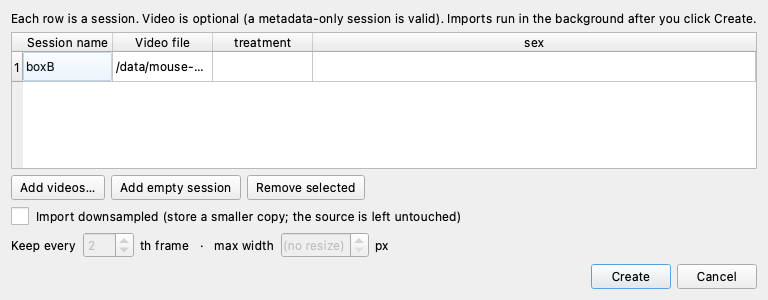
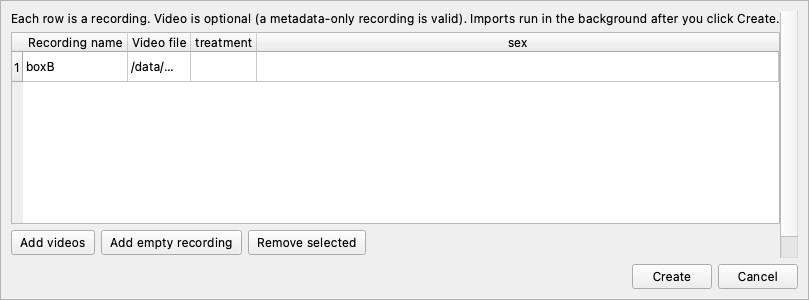
GUI guide, getting started, tools, workflows: match the current app, and refresh four workflow screenshots
Claude-Session: https://claude.ai/code/session_01P8h5Ax3XQNzAgR6wadyiRh

diff --git a/docs/gui.md b/docs/gui.md
@@ -43,11 +43,12 @@ A **mode banner** across the top, the current **screen** below it. The banner is
 Experiments     every experiment in the workspace: double-click a card to open
 Active processes  everything in flight across every experiment, plus what failed
 Configuration   machine-global setup checklist; each step opens its own screen:
-                  GPU / CUDA           accelerator status + a CUDA "doctor"
-                  SAM 3 backend        copy-paste commands to install the backend
-                  Hugging Face         token for gated model downloads
-                  Install a model      opens the Model manager
-                  Distill a fast model opens the Model manager
+                  GPU / CUDA             accelerator status + a CUDA "doctor"
+                  Hugging Face access    token for gated model downloads
+                  SAM 3 backend package  copy-paste commands to install the backend
+                  SAM 3 weights          opens the Model manager
+                  See it segment a clip  opens Quick tools
+                  Recommended: distill a fast model   opens the Model manager
 Model manager   every model on one page: global models, the open experiment's
                   trained models, and the Hugging Face foundation models;
                   distill or import a model from the top
@@ -139,8 +140,10 @@ A clip player also has **Context: off · 1 s · 2 s · 5 s**, the footage shown 
 clip. The clip sits between the brackets, and playing starts at the left edge so you watch the
 lead-in. A clip that fills nearly the whole bar (a cluster member that runs most of the video,
 say) gets no brackets, since there is no context to set it apart from. Near the start or end of a video you get whatever footage there is. Each screen picks
-its own starting amount (1 s on the clustering page's clip window and on Behavior Scan's AUDIT,
-off elsewhere); a change lasts until you close the player.
+its own starting amount: 1 s for a clip opened from AUDIT (a clustering run's or a behavior
+scan's), whatever the montage's **Show ▾** context is set to for a clip opened from a clustering
+run's INTERPRET (off until you change it), and off elsewhere. A change lasts until you close the
+player.
 
 **A clip in its own window** (double-click a clip, or a tile of the clustering page's montage)
 opens in the **Advanced view**: untick **Advanced view** at its top for the plain one-picture
@@ -262,7 +265,7 @@ Two surfaces show frames and deliberately do not play:
 
 ## Configuration
 
-Machine-global setup, shared across every experiment. The landing page is a **Get started** checklist (GPU / CUDA, the SAM 3 backend, Hugging Face access, a detection model, and optionally a distilled model), each with an **Open** button. It reads live state and marks each step ✓ when done.
+Machine-global setup, shared across every experiment. The landing page is a **Get started** checklist (GPU / CUDA, Hugging Face access, the SAM 3 backend package, the SAM 3 weights, **See it segment a clip**, which opens [Quick segment](tools.md#quick-segment), and **Recommended: distill a fast model**), each with an **Open** button. On a machine with no NVIDIA GPU the two SAM 3 steps are marked as needing one, and **Install a runnable detection model** is added after them. It reads live state and marks each step ✓ when done.
 
 **Check readiness** re-runs the checks. It probes the environment in a fresh subprocess, so if you install something in a terminal while the app is open (a CUDA PyTorch wheel, the SAM 3 backend package), clicking it picks the change up **without restarting the app**. A newly installed SAM 3 backend is then usable straight away, Quick segment included. A reinstalled PyTorch is not: the running app keeps the PyTorch it started with, so restart DETAIL to use the new build. The same checks run headless as [`detail doctor`](cli.md#doctor). SAM 3 is only marked ready when its weights *and* its backend package (`import sam3`) are both present, so a run can't pass the check and then crash mid-run.
 
@@ -715,7 +718,7 @@ Every run also writes `activity.csv` beside itself: a timestamped line per updat
 
 **＋ Distill new model**, on an experiment's **Models** page and on the [Model manager](#models), makes either kind of model: **Model type** at the top of the dialog chooses a **Detector** (boxes and masks) or a **Keypoints** model, and the fields below it follow. Name and experiment are shared. For a detector it runs the model-fitting flow: generate a YOLO dataset, train a detection model, and apply it as an ordinary detection run. The trained model is usable in that experiment straight away, under **Models** in the rail; it joins the machine-wide **Global models** only when you [promote it](#models). Distillation pairs a **teacher** (a strong model that labels the frames, `sam3` by default) with a **student** (the fast YOLO trained on those labels), so the form's two model pickers are labeled that way.
 
-**Models** in the rail lists the experiment's trained models, newest first. The **Source** column says where each came from: the distill run that trained it, or `trained` for one trained straight from a dataset. Double-click a row to open the model. Under it, **Distill runs** lists every distill run, including one that failed before it trained anything, which is why it is a table of its own; double-click a run to watch it, or to **Resume** a failed one. **Datasets** in the rail lists the training datasets.
+**Models** in the rail lists the experiment's trained models, newest first. The **Source** column says where each came from: the distill run that trained it, or `trained` for one trained straight from a dataset. Double-click a row to open the model. Under it, **Distill runs** lists every distill run, including one that failed before it trained anything, which is why it is a table of its own; double-click a run to watch it, or to **Resume** a failed one. **Datasets** in the rail lists the training datasets. Double-click one to open it: its name, status, source run, frames, train/validation counts and classes, and your [notes](#notes). While it is being built the page shows **Cancel dataset**, which stops its worker; once it is not, **Delete dataset** removes its images and labels after asking, and cannot be undone.
 
 Two buttons at the top of **Models** make a model:
 
@@ -734,7 +737,7 @@ Or do both at once: **＋ Distill new model** (on the **Models** page or the Mod
 returns them) and the held-out check; **Cancel** stops it. **Another sample** draws different
 frames; **Use this cut-off** writes the value into the field. Whenever **Distill** is greyed, the line beside it says why: an example set, a tracking run, a ticked detect run, a detect run with no single tracking run to give its poses to, or the cut-off. The training settings mirror **Train from dataset…**, with the **Student** a `-pose` checkpoint. The run has three stage rows, Label frames, Train model and **Register student**, the last filing the model under `role: keypoints` as `<name> distill_NNN` so **Keypoint detect** can offer it. A run that failed at register keeps its trained student; **Resume distill** only registers it. The **Distill runs** and **Models** tables' **Kind** column says `detector` or `keypoints`.
 
-A trained model's detail page lists its lineage, classes, weights, and metrics (best-epoch and final mAP50), above them. **Trained with** says the Ultralytics version and the settings it was asked for (epochs, batch size, image size, patience); every other setting Ultralytics resolved is kept in the model's `model.yaml`. While a run is training (or after one has finished) a **Training curve** band plots mAP50 against epoch, marks the best epoch, and says so underneath: *Best so far: 0.832 mAP50 at epoch 31: no improvement in 7 epochs (of 60)*. The x axis spans the whole run from the first epoch, so the shape does not rescale under you as it fills in. A model imported from elsewhere has no curve, because it has no epochs here. Training runs on CUDA when available. A training that was cancelled or crashed shows a **Resume training** button that continues from the last checkpoint.
+A trained model's detail page lists its lineage, classes, weights, and metrics (best-epoch and final mAP50), above them. **Trained with** says the Ultralytics version and the settings it was asked for (epochs, batch size, image size, patience); every other setting Ultralytics resolved is kept in the model's `model.yaml`. While a run is training (or after one has finished) a **Training curve** band plots mAP50 against epoch, marks the best epoch, and says so underneath: *Best so far: 0.832 mAP50 at epoch 31: no improvement in 7 epochs (of 60)*. The x axis spans the whole run from the first epoch, so the shape does not rescale under you as it fills in. A model imported from elsewhere has no curve, because it has no epochs here. Training runs on the best backend present (CUDA, else MPS, else CPU) unless you choose one. A training that was cancelled or crashed shows a **Resume training** button that continues from the last checkpoint.
 
 **Stopping training early.** A run in progress shows two buttons, and they do different things. **Stop and keep** finishes the epoch in progress and then saves the best weights so far, use it when the curve has flattened and the model is good enough. The weights kept are the **best** epoch's, not the last one's, which is why the band marks the peak. It is not instant: training checks between epochs, so on real data expect a few minutes. The model then counts as **complete**, you chose to finish it, and its page says **Stopped early: at epoch N**. It has no **Resume training**: the run is finished, so there is nothing to resume; train a new model to train further. **Cancel model** stops the worker now and discards the run. A failed dataset or training run shows its recorded error. **Promote to global** copies a completed model into the machine-global catalog with its provenance (source experiment, dataset, base model, metrics), so any experiment can select it.
 
@@ -843,7 +846,7 @@ The run writes `metrics.csv`, `folds.csv`, and per-clip detail. Open it for the 
 
 ### Behavior clustering
 
-Builds one vocabulary of *behaviors* pooled across the recordings you select, with no labels and nothing to point at ([how it works](modules/temporal_clustering.md)). It cuts each subject's trajectory into **bouts** at the moments the pose changes, compares every pair of bouts, and groups them (so a cluster is a stretch of movement and an instance is one performance of it, with a real start and end you can play. **New analysis… → Behavior clustering**, check the recordings, pick the **embedding run** and **track**, and **Run**. **Method** offers two ways of doing it, and the form shows only the chosen one's knobs. **codebook_viterbi** (the default) clusters a sample of frames into a codebook and decodes the sequence; its knobs are **Share of each recording**, **Codewords** and **Minimum run**. **dtw_finch** cuts the trajectory into bouts and compares every pair; the detector, minimum bout length, DTW band and **Max bouts** are its, under *Advanced settings*. The two tie on vocabulary quality and the bout path draws slightly better boundaries, but comparing every pair of bouts grows with the square of the study, so keep **dtw_finch** for short studies: the codebook's expensive step is bounded by a number you set, not by how much data you have. **Share of each recording** is how densely every video is sampled to build the codebook, the same in a large study as a small one. **Codewords** is the cost knob: the decode costs roughly the square of it on every frame you pooled, so lower it, not raise it, when a fit is slow.
+Builds one vocabulary of *behaviors* pooled across the recordings you select, with no labels and nothing to point at ([how it works](modules/temporal_clustering.md)). A cluster is a stretch of movement and an instance is one performance of it, with a real start and end you can play. **New analysis… → Behavior clustering**, check the recordings, pick the **embedding run** and **track**, and **Run**. **Method** offers two ways of doing it, and the form shows only the chosen one's knobs. **codebook_viterbi** (the default) clusters a sample of frames into a codebook and decodes the sequence; its knobs are **Share of each recording**, **Codewords** and **Minimum run**. **dtw_finch** cuts the trajectory into bouts and compares every pair; the detector, minimum bout length, DTW band and **Max bouts** are its, under *Advanced settings*. The two tie on vocabulary quality and the bout path draws slightly better boundaries, but comparing every pair of bouts grows with the square of the study, so keep **dtw_finch** for short studies: the codebook's expensive step is bounded by a number you set, not by how much data you have. **Share of each recording** is how densely every video is sampled to build the codebook, the same in a large study as a small one. **Codewords** is the cost knob: the decode costs roughly the square of it on every frame you pooled, so lower it, not raise it, when a fit is slow.
 
 **Embedding run** lists each set of embedding settings found across the checked recordings, with how many have a run of it (`N/M recordings`); the widest is ticked. Settings include everything upstream of the embedding, so recordings detected by two different models (one per strain, say) show up as two rows even when the embedding was made identically. **Tick both** to pool every recording into one vocabulary: each reads its run of the setting it has. A recording with a run of two ticked settings is refused in the form, and the runs must share an embedding model and input image, or the launch says they are not comparable.
 
@@ -946,7 +949,7 @@ already quoted. A run that has not sent anything anywhere shows no list at all.
 banner on the landing page names which one you are on, and the view cards open the interpretation *as it was*,
 the same tree, montage, labels and instance list, with the labels that were pinned. Everything
 that would change it is greyed: labelling, rebuilding clips, Finish and Reopen, every AUDIT edit
-(the **Mark as** buttons, **Undo**, **Finish**, **Reopen review**, and INTERPRET's **Put back in…**; every cluster's clips still play and can be selected, since watching changes nothing) and the audit line's **Move to…** and **Remove from the label**, and the run's own **Delete analysis**,
+(removing a clip by clicking it, **Undo**, **✓ Finish review**, **Reopen review**, and INTERPRET's **Put back in…**; every cluster's clips still play and can be selected, since watching changes nothing) and the audit line's **Move to…** and **Remove from the label**, and the run's own **Delete analysis**,
 **Cancel analysis**, **Start new analysis** and **Open output folder**. **Measures** is not shown at all, because it reports on the live run. Everything that changes what you are *looking at* still works, open
 any cluster, zoom the tree, play a clip. **Back to live run** returns you, and
 double-clicking another row switches straight to it. **Behavior scan** runs work the same way: a
@@ -966,7 +969,7 @@ Does this behavior differ between these groups? Pick a behavior result, say how 
 
 - **Behavior result**: the analysis run whose behavior the comparison measures. Only runs that produced one are listed, labelled with the module that made them, how many recordings they cover, and when.
   {: #comparison-source }
-- **Measure**: the run's **labelled behaviors**, or **every cluster** of a clustering run, named or not. The second is the screen for clusters nobody has named yet: each node of the tree with at least the candidate floor of member time (30 s, under *Difference ranking*) is ranked by how its share of time differs, with bouts per hour and mean bout length beside it, nested slices of one behavior collapsed to the best of them, and a one-line reason on every kept node. It is offered only for a clustering run with a current node cache. With it chosen, the four measures show ticked and fixed and **Read snapshot** is greyed: every cluster is measured by all four, from the node cache as it is now. Choose the labelled behaviors again and the measures you had ticked come back.
+- **Measure**: the run's **labelled behaviors**, or **every cluster** of a clustering run, named or not. The second is the screen for clusters nobody has named yet: each node of the tree with at least the candidate floor of member time (30 s, under *Difference ranking*) is ranked by how its share of time differs, with its rate (bouts per second of observed time) and mean bout length beside it, nested slices of one behavior collapsed to the best of them, and a one-line reason on every kept node. It is offered only for a clustering run with a current node cache. With it chosen, the four measures show ticked and fixed and **Read snapshot** is greyed: every cluster is measured by all four, from the node cache as it is now. Choose the labelled behaviors again and the measures you had ticked come back.
   {: #comparison-measure }
 - **Compare across**, which column of your recording information splits the recordings into groups, plus **subject** and **window_id**. Each column shows the values it holds and how many recordings carry each, so you can see which ones split your cohort usefully before picking. A column holding only one value cannot define groups and is greyed out saying so. Choosing `window_id` compares early against late in the same way choosing `treatment` compares drug against vehicle.
   {: #comparison-groups }
@@ -991,13 +994,13 @@ Below the columns, the form shows the groups your choice produces and how big ea
 
 A saved comparison opens on three tabs. **Overview** leads with the groups it compared, how many recordings and animals stand behind them, the design that ran and why, why no permutation floor was computed when that applies, and the largest changes with their figures. When a label it scores was written from a cluster screen over the same column, the header says so (*rearing (cmp_01) was chosen from a difference screen over drug, so the effect here is not an independent finding*) and that label's reading in the table ends with *chosen from screen cmp_01 (cluster #1375 kept)*. A cluster screen's own page lists the labels written from it (*Labelled from this screen: rearing (#1375)*), as its run holds them now. For a within-animal design the table is the ranking itself: each row's effect, how many animals went that way, how many had the behavior at all, whether it clears the floor, its p's (*p (family · own)*: *0.02 · own 0.004*, the share of shuffled cohorts whose largest effect reaches the row and the share of its own shuffles that do), and the one-line reading ("less under drug than vehicle, 2.1×; 8 of 10 animals in that direction"). A cluster screen lists the kept nodes first, the next ten below the floor after them. **Measures** is the full table: every measure in a fixed order, so the same row sits in the same place across comparisons. **Figures** is all of them as a grid; double-click one to open it full size. **New comparison** opens the form pre-filled from this one, for when you want the same source grouped a different way; **Export** writes the whole publication tree wherever you point it, in the figure formats you pick. A group of one reports no spread rather than a zero.
 
-The figures draw themselves when you open the tab, and **Redraw figures** draws them again after an edit. Figures are drawn on white, for print; tick **Dark background (for slides)** beside the button, or in the Export dialog, for a dark version. Either way you get one figure per measurement, whatever the window model: a **dot plot** across groups when there is one window (every observation drawn as a point, not a bar), and a **curve** across windows when there are several, a sliding-window comparison is one line per group, not one plot per window. When the same animal appears in more than one group, a whole-recording comparison also gets a **paired plot**, one line per animal, because two independent clouds of dots throw away the pairing that makes a crossover worth running. A two-group comparison gets the **difference ranking**, with the floor that says how big a difference shuffling the group labels would produce anyway. Every figure carries what one point is. **Transitions** is the exception that is not drawn: it answers per ordered pair, which is a matrix rather than a series, so it is reported as rows in the Measures tab and in `stats.csv` instead of as one two-point plot per cell. Figures and tables are written beside the comparison, ready to use, including the contrast as a `booktabs` LaTeX table that drops into a manuscript.
+The figures draw themselves when you open the tab, and **Redraw figures** draws them again after an edit. Figures are drawn on white, for print; tick **Dark background (for slides)** beside the button, or in the Export dialog, for a dark version. Either way you get one figure per measurement, whatever the window model: a **dot plot** across groups when there is one window (every observation drawn as a point, not a bar), and a **curve** across windows when there are several, a sliding-window comparison is one line per group, not one plot per window. When the same animal appears in more than one group, a whole-recording comparison also gets a **paired plot**, one line per animal, because two independent clouds of dots throw away the pairing that makes a crossover worth running. Every comparison with something to rank (two or more groups, or a within-animal design) gets the **difference ranking**, with the floor that says how big a difference chance would produce under its design: shuffling the group labels across animals for a between design, flipping each animal's own direction or shuffling its levels for a within one. Every figure carries what one point is. **Transitions** is the exception that is not drawn: it answers per ordered pair, which is a matrix rather than a series, so it is reported as rows in the Measures tab and in `stats.csv` instead of as one two-point plot per cell. Figures and tables are written beside the comparison, ready to use, including the contrast as a `booktabs` LaTeX table that drops into a manuscript.
 
 Statistics stop at description: the only p-values are the permutation floor's own (each ranked row's share of the shuffles that reach it, family-wise and on its own, and a false-discovery q over them), with no model behind them. `stats.csv` beside the comparison is one row per observation with its factors attached, which is what a mixed model in R or statsmodels wants as input.
 
 ## Model manager {#models}
 
-**Model manager** (a banner tab) is the machine's whole model library on one page. It keeps distilled models from getting lost in a folder: each global model has a name, metadata, and a preview. Its three tables each show the four newest rows and scroll for the rest.
+**Model manager** (a banner tab) is the machine's whole model library on one page. It keeps distilled models from getting lost in a folder: each global model has a name, metadata, and a preview. Its three tables each show four rows and scroll for the rest: **Global models** newest first, **Hugging Face** with the suggested models first.
 
 **Global models** are the models every experiment can use (ones you imported, ones you restored from a zip, and ones you promoted from an experiment) in a table: **Name · From project(s) · Made by · Created · Kind**. **Kind** is *detector* or *keypoints*. **Double-click a row** to open its detail. The detail shows a **preview** (one overlay frame of the model's own segmentation, **double-click it** to see it full size and zoom in), its kind, description, notes, and classes, and a **build history** (the source project(s), dataset, model size, and metrics it was distilled from). A keypoint model's detail also shows its **skeleton**: the points, the left/right pairs, and the [Keypoints manager](#keypoints-manager) entry it matches. The model always uses its own copy of the skeleton. From the detail page you can **Edit** the metadata, **Set preview**, **Export**, or **Delete**. **Export** is also a button below the table.
 
@@ -1063,13 +1066,15 @@ only watched. Each folder also gets a `params.csv` of the settings that produced
 [notes](#notes) on what you exported from as `notes.md` when it has any, and an `export.yaml`
 manifest. Each row's tooltip names the files it writes.
 
-- **The clip you are watching.** Every clip player has an **Export video…** button beside its
-  Masks checkbox, on a clustering result, a behavior scan, a query, the audit tab, the spatial
-  map, and a clip opened in its own window. It writes the span on screen, in the flavour on
-  screen: masks on draws the outline, masks off writes the plain footage. It opens the same
-  dialog as **Export…** above, already pointed at that clip, so the destination and the folder
-  naming work the way every other export does. The `clip.csv` beside it names the recording,
-  subject and frame range, so the file can be put back where it came from.
+- **The clip you are watching.** A clip player has an **Export video…** button beside its
+  Masks checkbox, on a clustering result, a behavior scan, a query, the audit tab and the spatial
+  map. It writes the span on screen, in the flavour on screen: masks on draws the outline, masks
+  off writes the plain footage. It opens the same dialog as **Export…** above, already pointed at
+  that clip, so the destination and the folder naming work the way every other export does. The
+  `clip.csv` beside it names the recording, subject and frame range, so the file can be put back
+  where it came from. A clip opened in its own window has no **Export video…**: its **Export ▾**
+  writes what the window shows straight to a file you choose (see
+  [Scrubbing frames](#scrubbing-frames)).
 - **Pictures as well as rows.** Anything with a plot exports the plot too, as PNG and SVG: the
   ethogram, time per behavior, the spread of bout durations. They are drawn on white for print;
   tick **Dark background (for slides)** in the dialog for a dark version.
@@ -1081,7 +1086,7 @@ manifest. Each row's tooltip names the files it writes.
   more than one: they are written in a single decode pass, so three cost about what one does.
   The full field of view is the default; crop to the subject when you want the pose at a
   constant scale.
-- **Select first to export less.** With a cluster selected on **Interpretation**, or rows
+- **Select first to export less.** With a cluster selected on **Interpret**, or rows
   selected on **Browse**, an extra row appears offering that selection or the whole run. On a
   clustering run's **BROWSE**, **Export all** exports exactly what passes its filters.
 - **Choose which recordings.** A processing run that covers several recordings (detection,

diff --git a/docs/workflows/add-stream-data-and-metadata.md b/docs/workflows/add-stream-data-and-metadata.md
@@ -13,13 +13,13 @@ MED-PC data file (`.txt`) and its program (`.MPC`).
 
 === "GUI"
 
-    Open the recording and, in the **Streams** section, click **Add stream…**
+    Open the recording and, in the **Streams** section, click **Add stream**
     (highlighted).
 
     ![A recording detail page with the Add stream button highlighted.](../assets/workflows/add-stream-data/recording-full.png)
 
-    Choose the **MED-PC** importer, select the data file and the `.MPC` program,
-    then click **Import stream**.
+    Choose the data file, the **MED-PC (Med Associates)** importer and the `.MPC`
+    program, then click **Import stream**.
 
     ![The Add stream dialog set to the MED-PC importer with its data and program files chosen.](../assets/workflows/add-stream-data/add-stream-dialog.png)
 
@@ -33,21 +33,29 @@ MED-PC data file (`.txt`) and its program (`.MPC`).
 
 === "GUI"
 
-    Open the experiment's **Metadata** page from the sidebar (highlighted).
+    Open the experiment's **Recording information** page from the rail on the left
+    (highlighted).
 
     ![The app sidebar with the Metadata node highlighted.](../assets/workflows/add-stream-data/metadata-node.png)
 
-    Add a column per grouping variable and fill each recording's row, or use
-    **Import CSV…** to set them in bulk.
+    Click **Edit**, use **Add column** for each grouping variable, fill each
+    recording's row, then click **Save**. Or use **Import CSV** to set them in bulk.
 
-    ![The experiment metadata table with treatment and sex columns for each recording.](../assets/workflows/add-stream-data/metadata-page.png)
+    ![The Recording information table with treatment and sex columns for each recording.](../assets/workflows/add-stream-data/metadata-page.png)
 
 === "CLI"
 
-    Set grouping variables in bulk from a CSV with a `recording_id` column:
+    Set grouping variables in bulk from a CSV with a `recording_id` column (a `name`
+    or video file name column works too):
 
     ```
     detail experiment import-metadata --experiment ~/Documents/DetailExperiments/operant-study --csv metadata.csv
+    ```
+
+    Or one recording at a time:
+
+    ```
+    detail experiment set-metadata --experiment ~/Documents/DetailExperiments/operant-study --recording boxA --set treatment=drug_A --set sex=M
     ```
 
 ## Next

diff --git a/docs/tools.md b/docs/tools.md
@@ -48,14 +48,16 @@ The Configuration checklist's **See it segment a clip** step opens this tool.
 ### CLI
 
 ```
-detail tools quick-segment CLIP.mp4 [CLIP2.mp4 …] --prompt mouse [--prompt "mouse with tail"] [--frames 50] [--min-conf 0.25]
-detail tools quick-segment CLIP.mp4 --consecutive --prompt mouse [--whole-video] [--export out.mp4]
+detail tools quick-segment CLIP.mp4 [CLIP2.mp4 …] --prompt mouse [--prompt "mouse with tail"] [--frames 50] [--min-conf 0.25] --backend cuda
+detail tools quick-segment CLIP.mp4 --consecutive --prompt mouse [--whole-video] [--export out.mp4] --backend cuda
 ```
 
 Each `--prompt` is a **separate prompt**, compared side by side; put several classes in one
 prompt by comma-separating them (`--prompt "mouse,cricket"`). `--sample` (the default)
 spreads the frames across each clip; `--consecutive` reads from frame 0 and is what
-`--export` needs.
+`--export` needs. `--backend` defaults to `cpu`, which SAM 3 cannot run on, so pass `--backend
+cuda` with the default model. With one of your own models (`--model <id>`), `--prompt` is still
+required, but the model ignores its text and finds its own classes.
 
 ```
 detail tools list            # saved runs
@@ -89,6 +91,8 @@ until you export. Deleting a run removes its folder.
 ## Adding a tool
 
 Quick segment is the first tool; the framework is general. A new tool is one `Tool` in
-`detail/tools/` (a pydantic config + a `run`) plus a GUI `ToolUI`; it self-registers and
-appears in the Tools list, CLI, and sidebar with no shell change. A tool whose work can run
+`detail/tools/` (a pydantic config + a `run`) plus a GUI `ToolUI` in `detail/gui/tools/`, each
+named in its module list (`TOOL_MODULES`, `TOOL_UI_MODULES`); it then appears in the Tools list
+and sidebar with no shell change. Its CLI command is written by hand under `detail tools` in
+`detail/cli.py`. A tool whose work can run
 long takes the `stop_check` its `run` is handed and polls it, so the Stop button works.

diff --git a/docs/getting-started.md b/docs/getting-started.md
@@ -80,8 +80,9 @@ Clone the repo and install the baseline extras.
 | `yolo` | YOLO training + trained/imported-model inference (CPU/MPS/CUDA) |
 | `torch` | DINOv3 embedding (gated) |
 | `gui` | desktop app |
-| `analysis` | UMAP / HDBSCAN / scikit-learn (pose and behavior clustering); SciPy is installed by default |
+| `analysis` | scikit-learn, for behavior clustering and its scores; SciPy is installed by default |
 | `sam3` | SAM3 backend ([below](#sam3-backend)) |
+| `keypoints_export` | the DeepLabCut H5, SLEAP and NWB keypoint exports (h5py, pandas, PyTables, pynwb, ndx-pose); the CSV exports need nothing extra |
 | `dev` | pytest + black (contributors) |
 
 DINOv3 embedding weights are gated. Set up [Hugging Face access](#hugging-face-access)
@@ -214,8 +215,11 @@ gated repos.
     detail model check dinov3_vit
     ```
 
-Both should print `reason=ok`. `no_token` / `no_access` / `bad_token` indicate
-which step to revisit; the message and action URL point to the exact fix.
+Both should print `reason=ok` once installed (`not_installed` until then).
+`no_token` / `no_access` / `bad_token` / `offline` indicate which step to revisit, and
+`missing_dependency` means a Python package the model needs is not installed (the
+`torch` extra, or the [SAM3 backend](#sam3-backend)); the message and action URL point
+to the exact fix.
 `detail model install <id>` downloads the weights ahead of time. The same
 checks are available from Python via `Experiment.check_model_access(<id>)`.
 

diff --git a/README.md b/README.md
@@ -10,7 +10,7 @@ A species-agnostic tool for behavioral analysis. Powered by open-source segmenta
 - [Workflows](docs/workflows/create-a-experiment.md): step-by-step setup, from a new experiment to recordings, streams, and metadata
 - [Concepts](docs/concepts.md): tool design and data organization
 - [CLI guide](docs/cli.md): headless operation via CLI
-- [GUI guide](docs/gui.md): desktop app (Experiments, Configuration, Model manager, Quick tools)
+- [GUI guide](docs/gui.md): desktop app (Experiments, Active processes, Configuration, Model manager, Keypoints manager, Quick tools, Docs)
 - [Tools](docs/tools.md): one-off runs like Quick segment, no experiment needed
 
 ## Quick start
@@ -112,4 +112,4 @@ request. In short:
 - Install with `uv pip install -e ".[torch,gui,analysis,dev]"`, then run `pre-commit install`
   once. Commits then get formatted and checked.
 - Work on a feature branch and open a pull request. Don't commit to `main` directly.
-- Run `pytest -q -n auto` before opening a pull request.
+- Run `pytest -q -n auto --dist loadfile` before opening a pull request.

diff --git a/docs/known-issues.md b/docs/known-issues.md
@@ -9,5 +9,5 @@ Training bakes machine-local paths into its checkpoint. `train resume` recovers 
 machine**, but an experiment archived and moved to another machine (the cross-machine flow in the CLI
 guide) can't resume a *partially-trained* model. A dataset moved *within* a machine resumes fine.
 
-- **Workaround:** finish training before `experiment export`, or retrain the model from its dataset on
-  the new machine.
+- **Workaround:** finish training before `experiment export`, or export with `--include-datasets`
+  (a plain export leaves datasets out) and retrain the model from its dataset on the new machine.

diff --git a/docs/workflows/import-recordings-from-yaml.md b/docs/workflows/import-recordings-from-yaml.md
@@ -43,7 +43,7 @@ Every field, and each importer's required files, is in the
 
 === "GUI"
 
-    In the experiment, click **Import bundle…** (highlighted) and choose the bundle
+    In the experiment, open **Recordings** and click **Import bundle** (highlighted). Choose the bundle
     folder (the one holding `manifest.yaml`). The manifest is validated; confirm to
     create the recordings.
 
